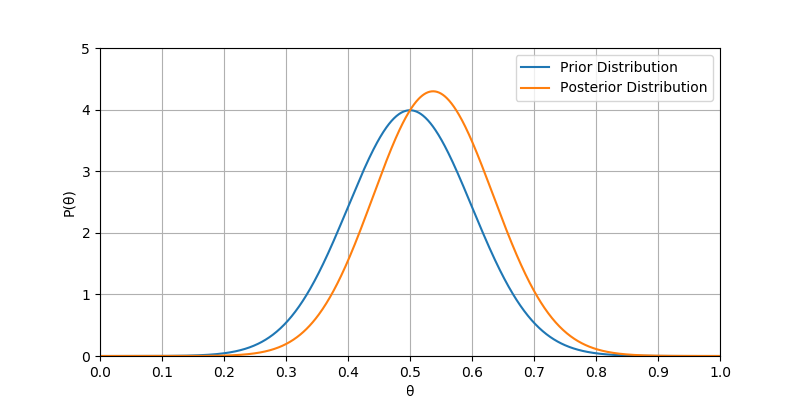
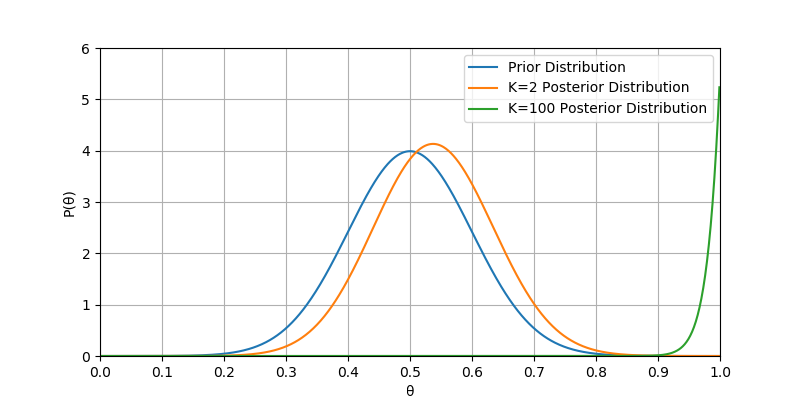
self

diff --git a/img/in-post/post-ml/paint.py b/img/in-post/post-ml/paint.py
@@ -5,14 +5,30 @@ import math
 
 def func1(xl):
     y = []
+    y_sum = 0
     for x in xl:
-        y.append(4 * x * x * math.pow(math.e, -(x - 0.5) *(x - 0.5) / (2 * 0.1 * 0.1)) / (math.sqrt(2 * math.pi) * 0.1))
+        val = x * x * math.pow(math.e, -(x - 0.5) *(x - 0.5) / (2 * 0.1 * 0.1)) / (math.sqrt(2 * math.pi) * 0.1)
+        y.append(val)
+        y_sum += 0.001 * val
+    for i in range(len(y)):
+        y[i] /= y_sum
     return y
 
 def func2(xl):
     y = []
     for x in xl:
         y.append(math.pow(math.e, -(x - 0.5) * (x - 0.5) / (2 * 0.1 * 0.1)) / (math.sqrt(2 * math.pi) * 0.1))
+    return y
+
+def func3(xl):
+    y = []
+    y_sum = 0
+    for x in xl:
+        val = math.pow(x, 100) * math.pow(math.e, -(x - 0.5) *(x - 0.5) / (2 * 0.1 * 0.1)) / (math.sqrt(2 * math.pi) * 0.1)
+        y.append(val)
+        y_sum += 0.001 * val
+    for i in range(len(y)):
+        y[i] /= y_sum * 10
     return y
 
 plt.figure(figsize=(8, 4))
@@ -23,9 +39,11 @@ x_ = np.arange(0,1,0.001)
 '''function below'''
 y_ = func1(x_)
 y1_ = func2(x_)
+y2_ = func3(x_)
 
 plt.plot(x_, y1_, label='Prior Distribution')
-plt.plot(x_, y_, label='Posterior Distribution')
+plt.plot(x_, y_, label='K=2 Posterior Distribution')
+plt.plot(x_, y2_, label='K=100 Posterior Distribution')
 
 # 设置x坐标轴刻度,
 plt.xticks(np.arange(0,1.001,0.1))
@@ -38,7 +56,7 @@ ax.xaxis.set_ticks_position('bottom')
 # 设置y坐标轴为左边框
 ax.yaxis.set_ticks_position('left')
 plt.xlim(0, 1)
-plt.ylim(0, 5)
+plt.ylim(0, 6)
 plt.grid(True)
 plt.legend()
 plt.show()

diff --git a/_posts/2018-10-25-ml-overall-bayes.md b/_posts/2018-10-25-ml-overall-bayes.md
@@ -9,10 +9,11 @@ tags:
   - 机器学习
 ---
 
-> 天下难事，必作于易
+> 统计推断作为重要的机器学习基础，对它的了解十分必要，否则我们做机器学习只是在黑盒操作，对其原理和结果难以解释。文章首发于[我的博客](https://kangcai.github.io/2018/10/25/ml-overall-bayes/)，转载请保留链接 ;)
 
-统计推断作为重要的机器学习基础，对它的了解十分必要，否则我们做机器学习只是在黑盒操作，对其原理和结果难以解释。而统计推断又是统计学的一个庞大的分支，
-统计学有两大学派,频率学派和贝叶斯学派,我们可以从频率学派和贝叶斯学派的长期争论历程中去了解它们和统计推断:
+### 频率学派和贝叶斯学派
+
+统计推断是通过样本推断总体的统计方法，它是统计学的一个庞大的分支。统计学有两大学派，频率学派和贝叶斯学派，在统计推断的方法上各有不同。我们可以从频率学派和贝叶斯学派的长期争论历程中去了解两个学派的方法和观点，以及统计推断的相关知识:
 
 * 频率学派，20世纪初期建立，在之后的整个20世纪基本主宰了统计学，代表人费舍尔（Fisher）、K.皮尔逊（Karl Pearson）、内曼（Neyman），
 费舍尔提出极大似然估计方法（Maximum Likelihood Estimation，MLE）和多种抽样分布，K皮尔逊提出Pearson卡方检验、Pearson相关系数，
@@ -22,10 +23,16 @@ tags:
 * 抽象地说，两种学派的主要差别在于探讨「不确定性」这件事的立足点不一样，频率学派试图对「事件」本身建模，认为「事件本身就具有客观的不确定性」；贝叶斯学派不去试图解释「事件本身的随机性」，而是从观察事件的「观察者」角度出发，认为不确定性来源于「观察者」的「知识不完备」，在这种情况下，通过已经观察到的「证据」来描述最有可能的「猜的过程」，因此，在贝叶斯框架下，同一件事情对于知情者而言就是「确定事件」，对于不知情者而言就是「随机事件」，随机性并不源于事件本身是否发生，而只是描述观察者对该事件的知识状态。
 * 具体来说，两种学派的主要差别是在对参数空间的认知上，即参数的可能取值范围。频率学派认为存在唯一的真实常数参数，观察数据都是在这个参数下产生的，由于不知道参数到底是哪个值，所以就引入了最大似然（Maximum Likelihood）和置信区间（confidence interval）来找出参数空间中最可能的参数值；贝叶斯学派认为参数本身存在一个概率分布，并没有唯一真实参数，参数空间里的每个值都可能是真实模型使用的参数，区别只是概率不同，所以就引入了先验分布（prior distribution）和后验分布（posterior distribution）来找出参数空间每个参数值的概率。
 * 贝叶斯学派的贝叶斯方法由于其理论更符合我们解决问题的思路,推断过程中加入了过往经验,且由于计算机的发展有效地解决了贝叶斯方法的难推导和难计算等缺陷,在机器学习的各种应用上都大放光彩,但也由于其对先验知识的要求,导致不适合被使用在一些不适合加入先验知识\十分追求严谨的应用场景,比如制药\法律等;频率学派通过假设检验的统计方法可以有效解决制药\法律的推断问题,但实际上也有天然的缺陷(这一块扩展内容较多,以后有机会再讨论).
-* 频率学派（Frequentist）- 最大似然估计（MLE, Maximum Likelihood Estimation）
-* 贝叶斯学派（Bayesians）- 最大后验估计（MAP, Maximum A Posteriori）
+
 
 总的来说，两个学派现状是仍在互相争论，也在发展中互相借鉴。
+
+### 最大似然估计和最大后验估计
+
+两个学派对应了如下两种经典的推断方法：
+
+* 频率学派（Frequentist）- 最大似然估计（MLE, Maximum Likelihood Estimation）
+* 贝叶斯学派（Bayesians）- 最大后验估计（MAP, Maximum A Posteriori）
 
 用一个例子去更好地理解两种学派的对应两种方法，首先是一些名词的解释:
 
@@ -35,12 +42,12 @@ tags:
 * 最大似然估计（MLE）: 其实前面抛两次硬币的例子中就进行了似然估计，其曲线可如图1表示，当p=0.5时，似然估计值为0.25；p=0.6时，似然估计值为0.36；在p=1.0时能取到最大似然估计值1.0。
 
 <img src="https://kangcai.github.io/img/in-post/post-ml/2018-10-26-ml-overall-bayes-1.png"/>
-<center>图1 抛两次硬币实验的似然函数</center>
+<center>图1 抛两次硬币两次正面朝上的似然函数</center>
 
-* 最大后验估计（MAP）: 最大后验估计会加入先验知识，通过贝叶斯公式<img src="http://latex.codecogs.com/gif.latex?P(\theta|x_0)=\frac{P(x_0|\theta)P(\theta)}{P(x_0)}" title="P(\theta|x_0)=\frac{P(x_0|\theta)P(\theta)}{P(x_0)}" />来得到硬币朝上概率的概率分布。同样是两抛次硬币的例子，最大似然估计方法通过抛两次硬币的样本得出是硬币朝上概率最可能是1.0的结论，我会觉得这个结论不可信，因为就我以前对硬币的认知，通常情况下硬币是接近均匀的，朝上的概率一般是0.5，最大后验估计就是在推断的过程中，通过贝叶斯定理将上述的这个先验知识考虑进去。对于投硬币的例子来看，我们认为（先验地知道）θ取0.5的概率很大，取其它值相对较小，用一个高斯分布来具体描述我们掌握关于θ的这个先验知识，比如假设<img src="http://latex.codecogs.com/gif.latex?\theta&space;$\sim$&space;N(0.5,0.1^2)" title="\theta $\sim$ N(0.5,0.1^2)" />，即θ服从均值0.5，方差0.1的正态分布，函数如图2中"K=2 Prior Distribution"曲线所示，则最后后验估计函数为<img src="http://latex.codecogs.com/gif.latex?P(\theta|x)=\frac{\theta^2e^{-\frac{(\theta-\mu)^2}{2\sigma^2}}}{F\sqrt{2\pi}\sigma},\mu=0.5,\sigma=0.1" title="P(\theta|x)=\frac{\theta^2e^{-\frac{(\theta-\mu)^2}{2\sigma^2}}}{F\sqrt{2\pi}\sigma},\mu=0.5,\sigma=0.1" />，其中F为积分常数，函数如图2中Posterior Distribution曲线所示。另外,当抛硬币的次数达到了100次,如图2中"K=100 Prior Distribution"所示,可以看到XX;事实上如果抛无穷大次,都是朝上,那么无论先验假设是什么,后验分布都是1分布,即只在θ=1上概率大于0.
+* 最大后验估计（MAP）: 最大后验估计会加入先验知识，通过贝叶斯公式<img src="http://latex.codecogs.com/gif.latex?P(\theta|x_0)=\frac{P(x_0|\theta)P(\theta)}{P(x_0)}" title="P(\theta|x_0)=\frac{P(x_0|\theta)P(\theta)}{P(x_0)}" />来得到硬币朝上概率的概率分布。同样是两抛次硬币的例子，最大似然估计方法通过抛两次硬币的样本得出是硬币朝上概率最可能是1.0的结论，我会觉得这个结论不可信，因为就我以前对硬币的认知，通常情况下硬币是接近均匀的，朝上的概率一般是0.5，最大后验估计就是在推断的过程中，通过贝叶斯定理将上述的这个先验知识考虑进去。对于投硬币的例子来看，我们认为（先验地知道）θ取0.5的概率很大，取其它值相对较小，用一个高斯分布来具体描述我们掌握关于θ的这个先验知识，比如假设<img src="http://latex.codecogs.com/gif.latex?\theta&space;$\sim$&space;N(0.5,0.1^2)" title="\theta $\sim$ N(0.5,0.1^2)" />，即θ服从均值0.5，方差0.1的正态分布，函数如图2中"K=2 Prior Distribution"曲线所示，则最后后验估计函数为<img src="http://latex.codecogs.com/gif.latex?P(\theta|x)=\frac{\theta^2e^{-\frac{(\theta-\mu)^2}{2\sigma^2}}}{F\sqrt{2\pi}\sigma},\mu=0.5,\sigma=0.1" title="P(\theta|x)=\frac{\theta^2e^{-\frac{(\theta-\mu)^2}{2\sigma^2}}}{F\sqrt{2\pi}\sigma},\mu=0.5,\sigma=0.1" />，其中F为积分常数，函数如图2中Posterior Distribution曲线所示。另外,当抛硬币的次数达到了100次,后验估计函数如图2中"K=100 Prior Distribution"所示（为了视觉友好，函数曲线在Y轴上压缩到了1/10），可以看到θ的值越来越靠近1；事实上如果抛无穷大次硬币，都是正面朝上，那么无论先验假设是什么，后验分布都是1分布，即只在θ=1上概率不等于0。
 
 <img src="https://kangcai.github.io/img/in-post/post-ml/2018-10-26-ml-overall-bayes-2.png"/>
-<center>图2 抛两次硬币实验的先验分布和后验分布</center>
+<center>图2 抛硬币的先验分布和抛K次硬币K次正面朝上的后验分布</center>
 
 其实回头看最大似然估计，当我们的先验假设是<img src="http://latex.codecogs.com/gif.latex?\theta$\sim$U(0,1)" title="\theta$\sim$U(0,1)" />，即θ服从均匀分布时，最大后验估计的目标函数和最大似然目标函数是同样形式的（当然这并非说明最大似然估计是最大后验估计的特例，前者的出发点就不一样）。
 
